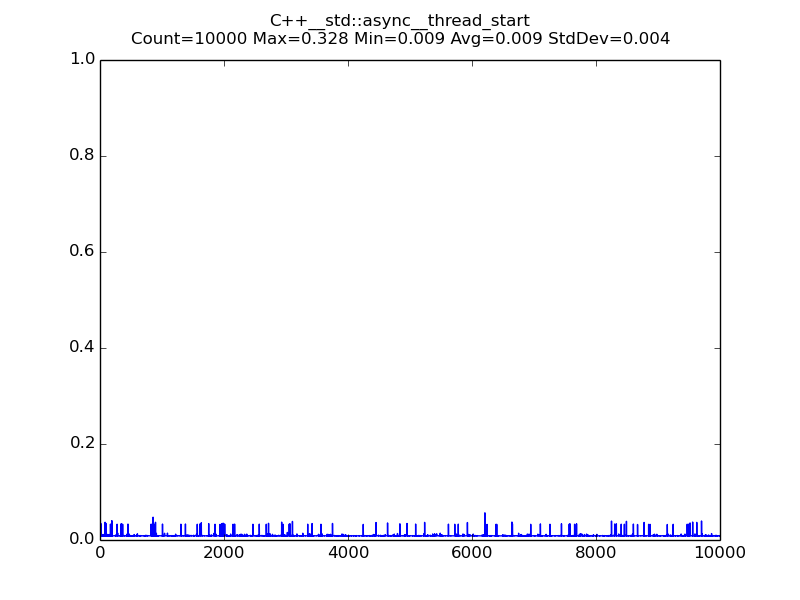
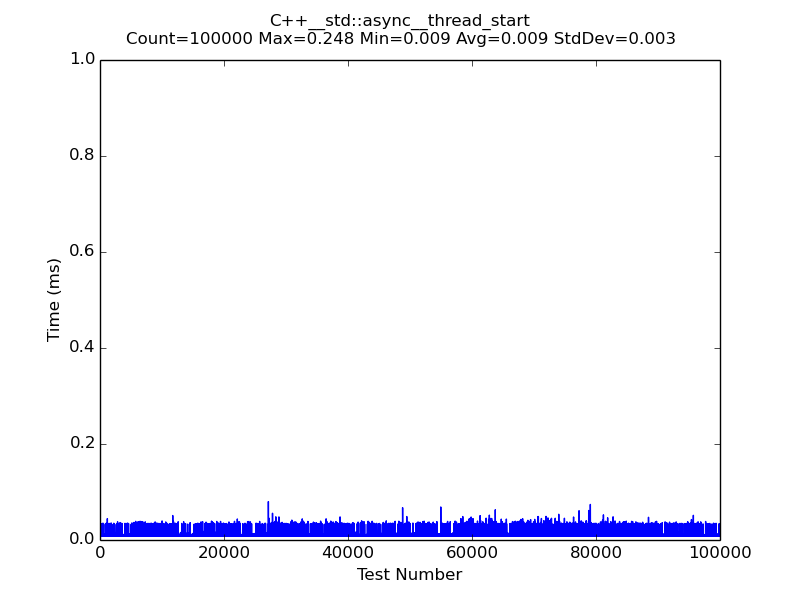
Added axis labels

Changed region(s): [[0.125, 0.84, 0.9375, 0.99], [0.1562, 0.03, 0.8438, 0.09], [0.0625, 0.42, 0.0938, 0.57]]

diff --git a/src/outputparser.py b/src/outputparser.py
@@ -71,6 +71,8 @@ class Data:
 		fig, ax = plt.subplots( nrows=1, ncols=1 )
 		fig.suptitle( title )
 		ax.set_ylim( 0, 1 )
+		ax.set_ylabel( 'Time (ms)' )
+		ax.set_xlabel( 'Test Number' )
 		ax.plot( self.nonZeroData( ) )
 		fig.savefig( self.graphFileName( ) )
 		plt.close( fig )	
